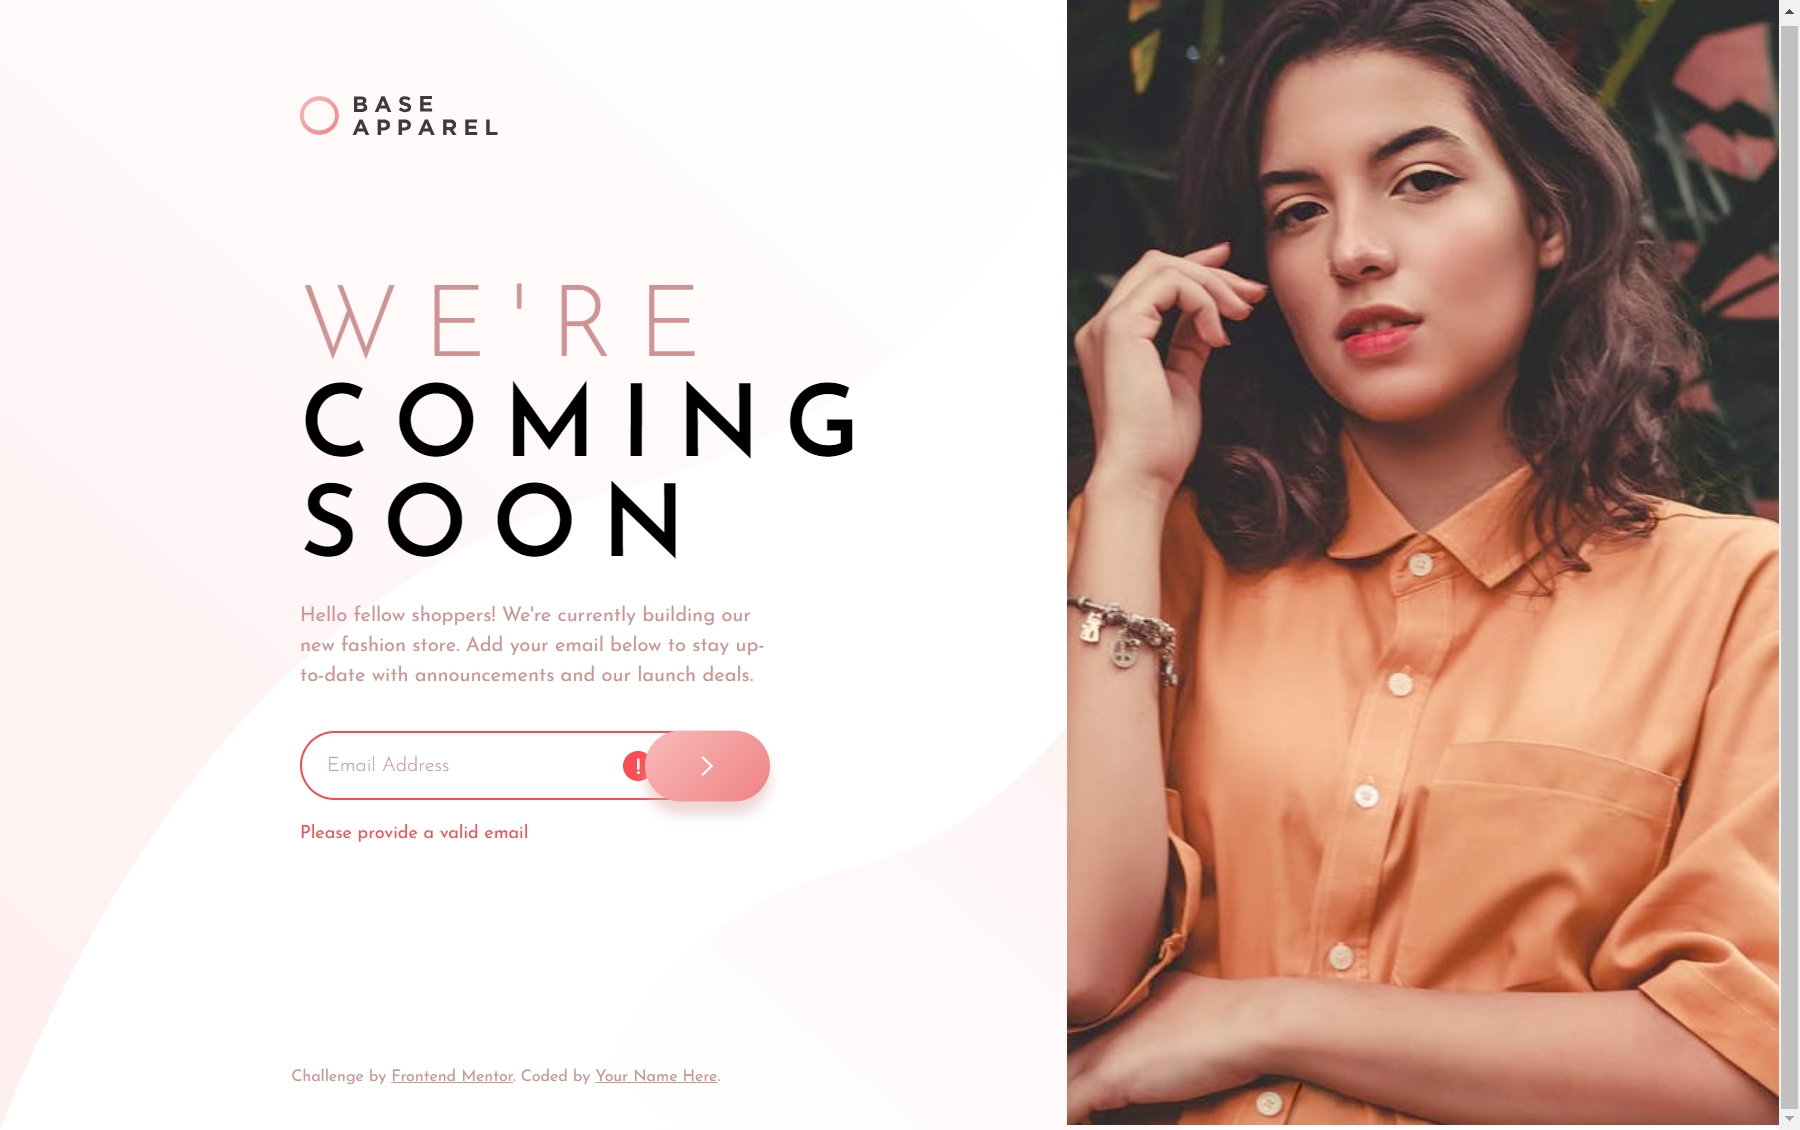
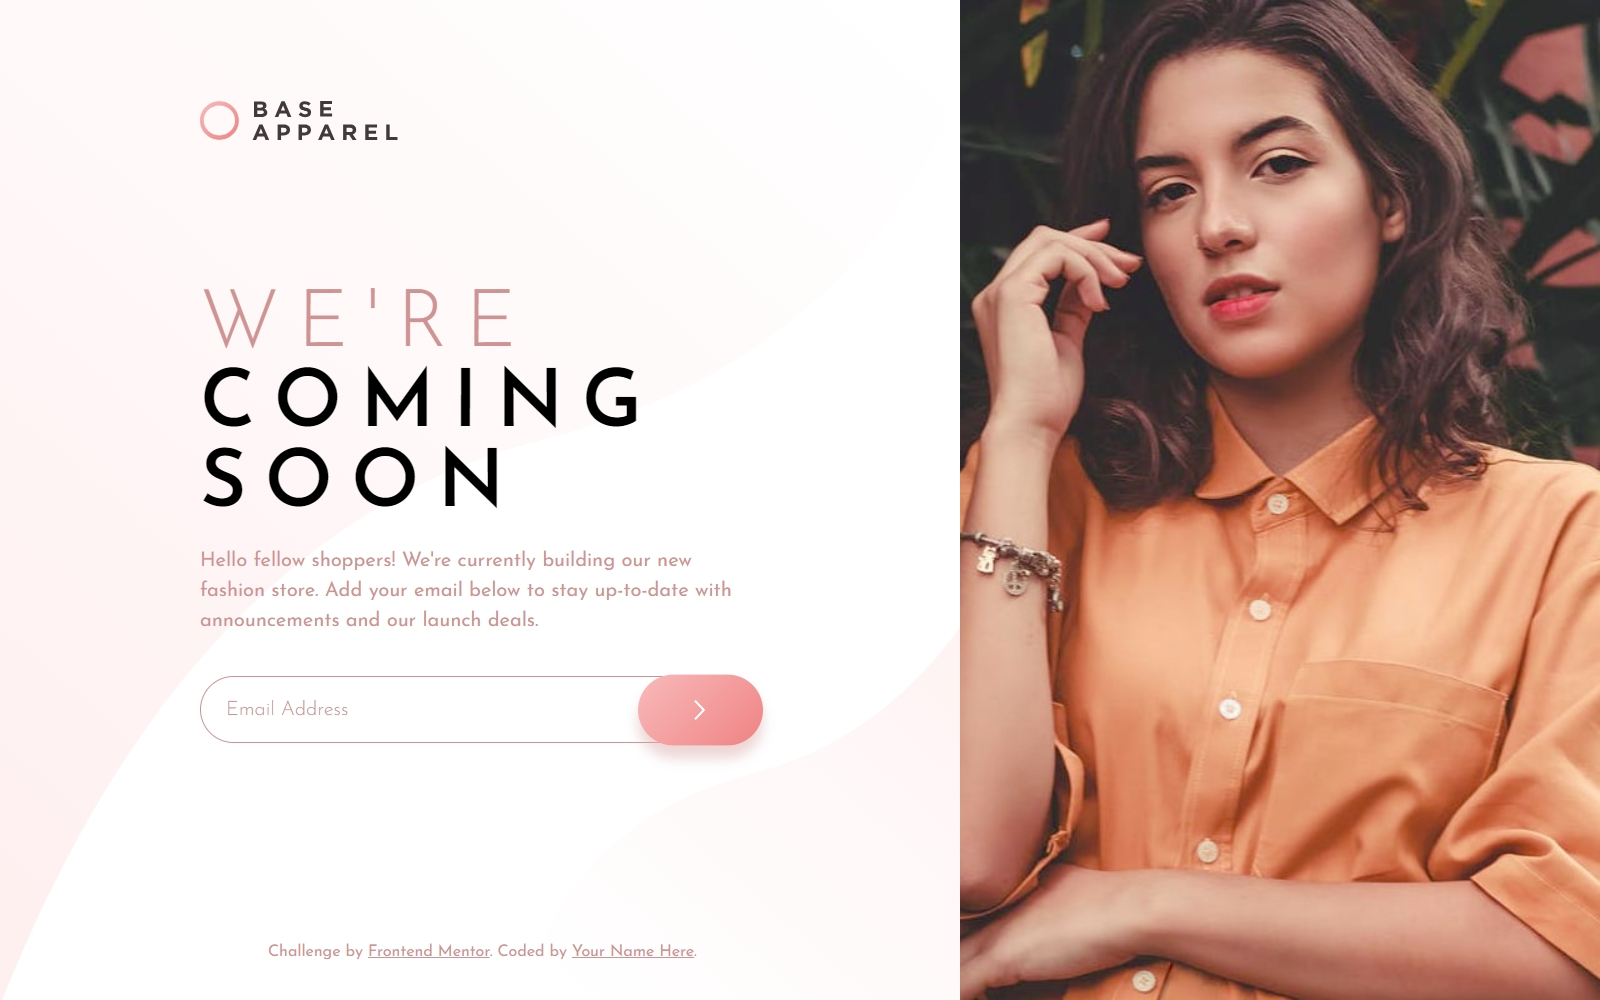
added some codes

diff --git a/base-apparel-coming-soon-master/README.md b/base-apparel-coming-soon-master/README.md
@@ -32,7 +32,7 @@ Users should be able to:
 
 ### Screenshot
 
-![](./screenshot.jpg)
+![My desktop design](./design/My-desktop-design.jpeg)
 
 Add a screenshot of your solution. The easiest way to do this is to use Firefox to view your project, right-click the page and select "Take a Screenshot". You can choose either a full-height screenshot or a cropped one based on how long the page is. If it's very long, it might be best to crop it.
 
